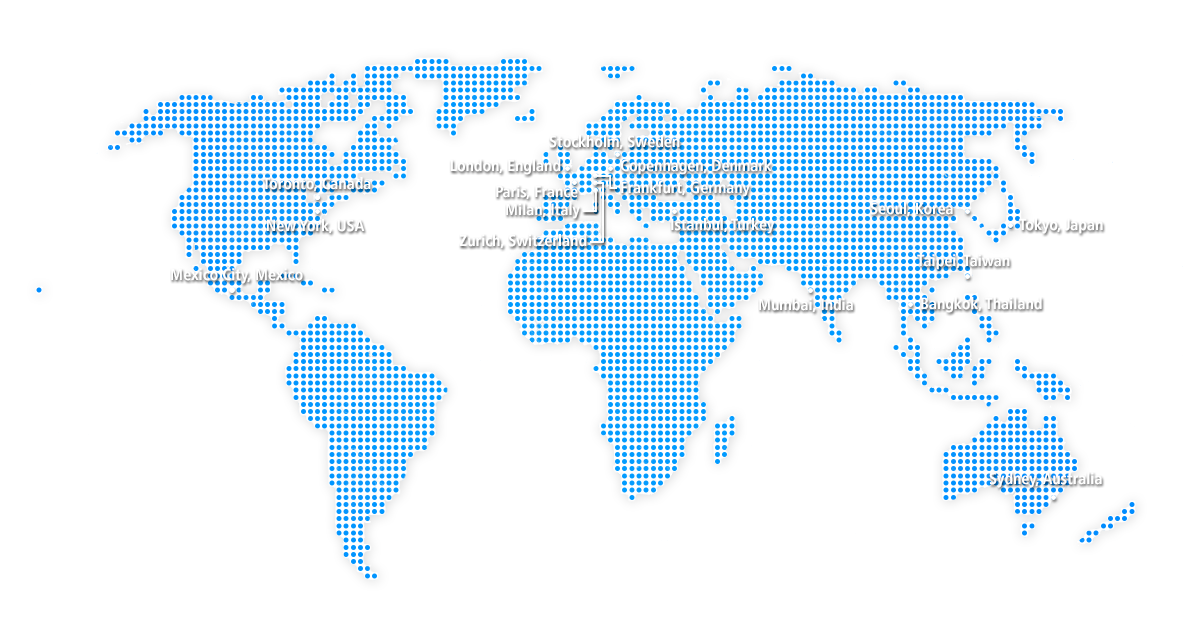
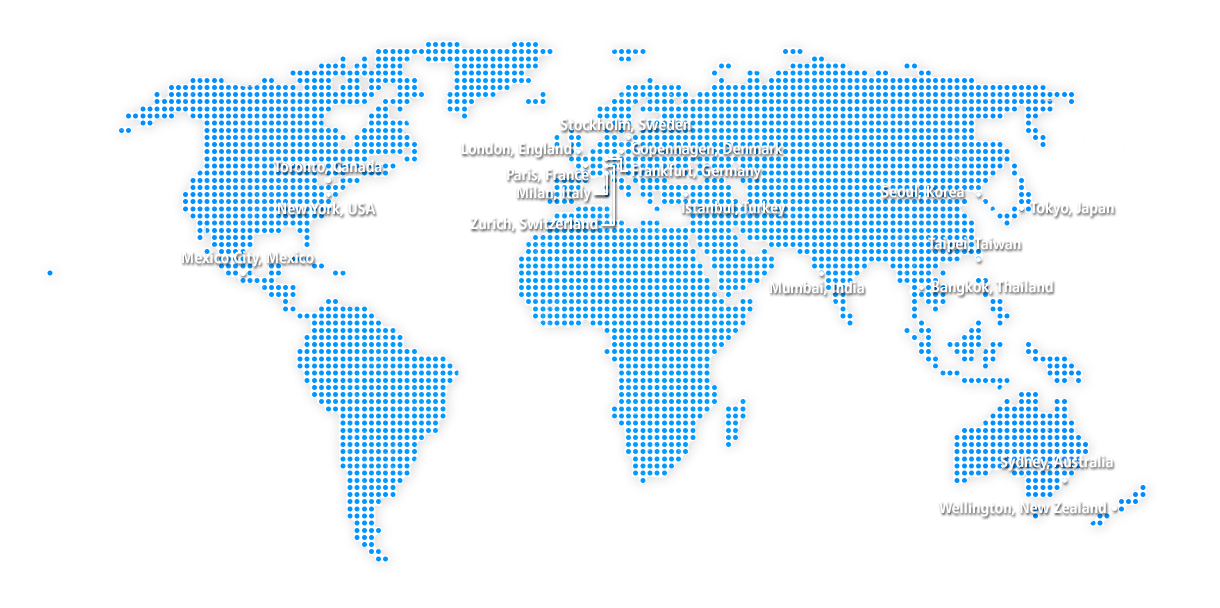
updated the map of locations on the homepage

Changed region(s): [[0.0924, 0.0625, 0.955, 0.9375]]

diff --git a/sites/all/themes/ICSA/css/screen.css b/sites/all/themes/ICSA/css/screen.css
@@ -172,7 +172,7 @@ li, p {
 .front #region-banner {
   max-width: 1620px;
   margin: 0 auto;
-  background: url(../images/map1.png) no-repeat;
+  background: url(../images/map1.png?v=2) no-repeat;
   background-position: center;
   height: 500px;
   background-size: contain; }

diff --git a/sites/all/themes/ICSA/sass/_main.scss b/sites/all/themes/ICSA/sass/_main.scss
@@ -266,7 +266,7 @@ li,p
 {	
 	max-width: 1620px;
     margin: 0 auto;
-	background:url(../images/map1.png) no-repeat;
+	background:url(../images/map1.png?v=2) no-repeat;
 	background-position:center;
 	height: 500px;
 	background-size: contain;
